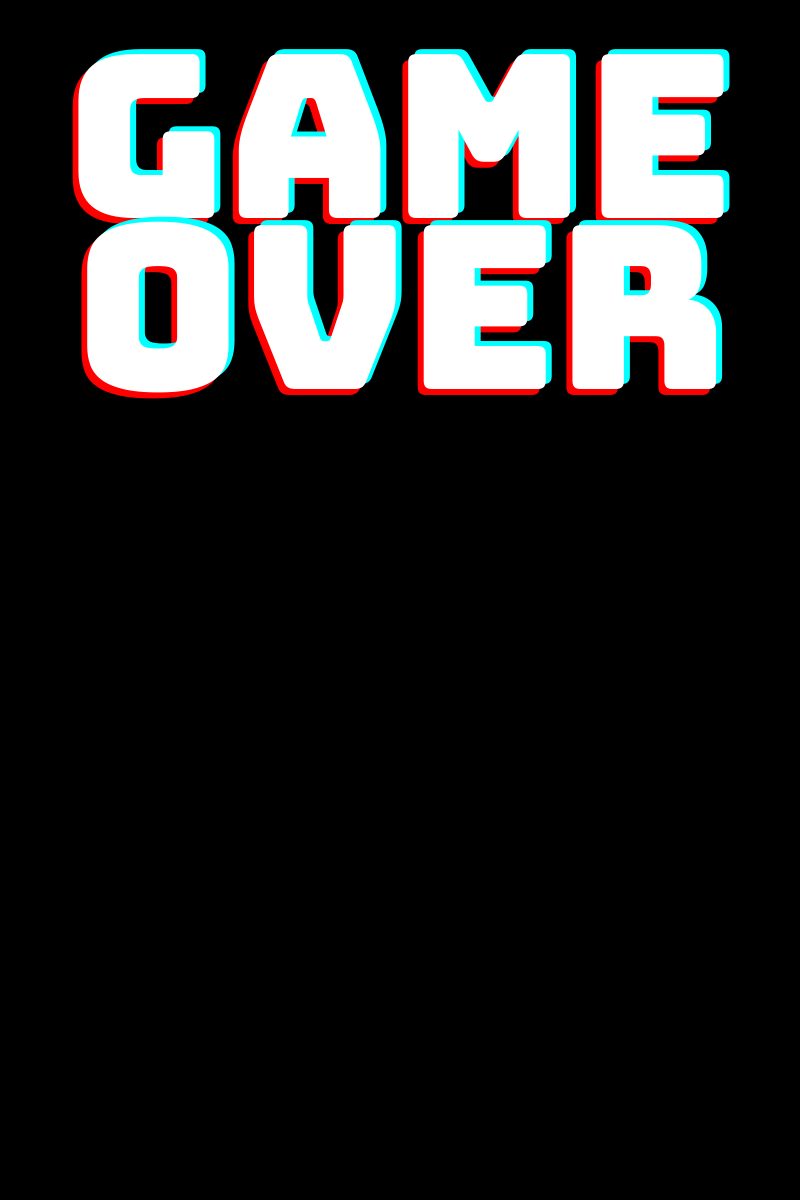
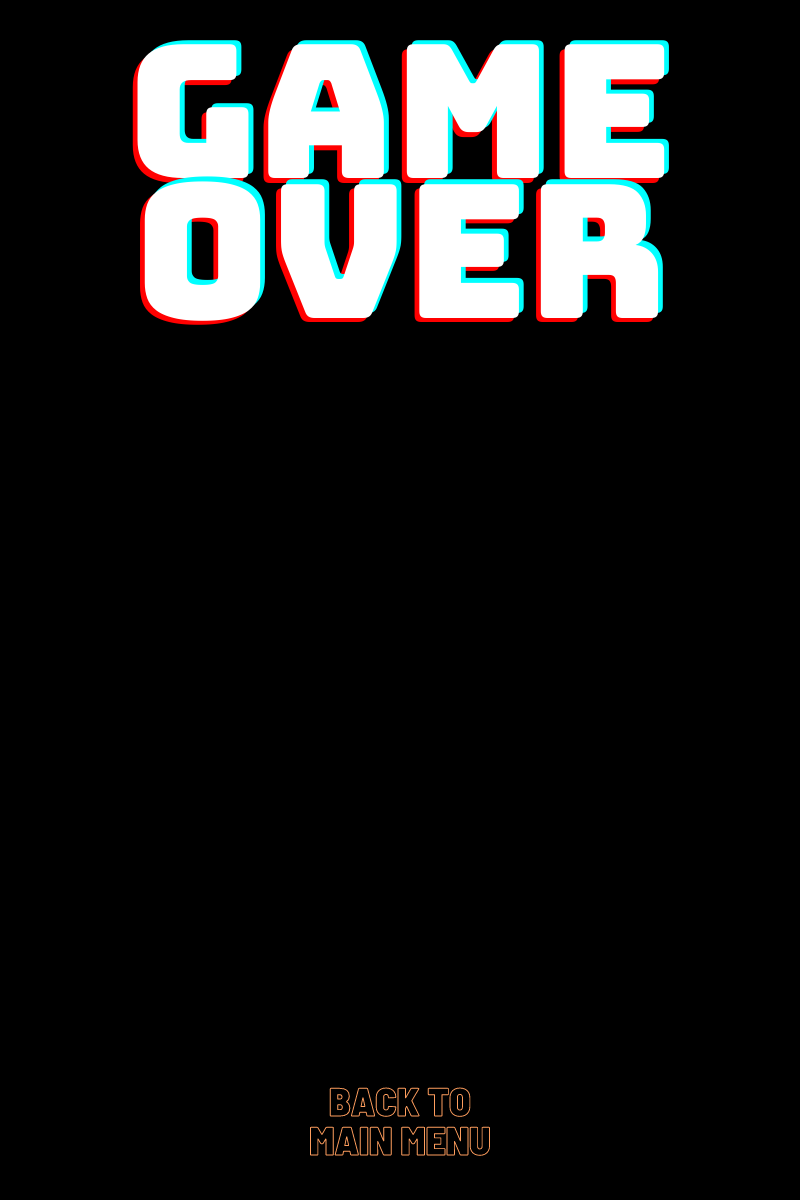
Update game over screen

Changed region(s): [[0.0625, 0.0308, 0.9375, 0.3392], [0.375, 0.8942, 0.625, 0.9867]]

diff --git a/public/scripts/p1Scripts/p1WhacAMole.js b/public/scripts/p1Scripts/p1WhacAMole.js
@@ -366,8 +366,20 @@ function gameOver() {
     // Show the leaderboard
     document.getElementById('leaderboard').style.display = '';
 
-    restartBtn.position(width / 2 - width / 2 * 0.3, 0.9 * height);
-    restartBtn.mousePressed(function () {
+    //fill(255, 0, 0);
+    //rect(width / 2 + width / 2 * 0.23, height / 2 + height / 2 * 0.92, 10, 10);
+    //fill(255, 255, 0);
+
+    //rect(width / 2 + width / 2 * 0.23, height / 2 + height / 2 * 0.81, 10, 10);
+    //fill(255, 0, 255);
+
+    //rect(width / 2 - width / 2 * 0.23, height / 2 + height / 2 * 0.81, 10, 10);
+    //fill(0, 0, 255);
+
+    //rect(width / 2 - width / 2 * 0.23, height / 2 + height / 2 * 0.92, 10, 10);
+
+    if (screen == 2 && mouseIsPressed && mouseX >= width / 2 - width / 2 * 0.23 && mouseX <= width / 2 + width / 2 * 0.23
+        && mouseY >= height / 2 + height / 2 * 0.81 && mouseY <= height / 2 + height / 2 * 0.92) {
         screen = 0; // Start screen.
         document.getElementById('restartBtn').style.display = 'none';
         document.getElementById('startBtn').style.display = 'block';
@@ -375,7 +387,18 @@ function gameOver() {
         submitBtn.hide();
         document.getElementById('leaderboard').style.display = 'none';
         resetGame();
-    });
+    }
+
+    //restartBtn.position(width / 2 - width / 2 * 0.3, 0.9 * height);
+    //restartBtn.mousePressed(function () {
+    //    screen = 0; // Start screen.
+    //    document.getElementById('restartBtn').style.display = 'none';
+    //    document.getElementById('startBtn').style.display = 'block';
+    //    inputBox.hide();
+    //    submitBtn.hide();
+    //    document.getElementById('leaderboard').style.display = 'none';
+    //    resetGame();
+    //});
 }
 
 //// This function fires on every resize of the browser window.
